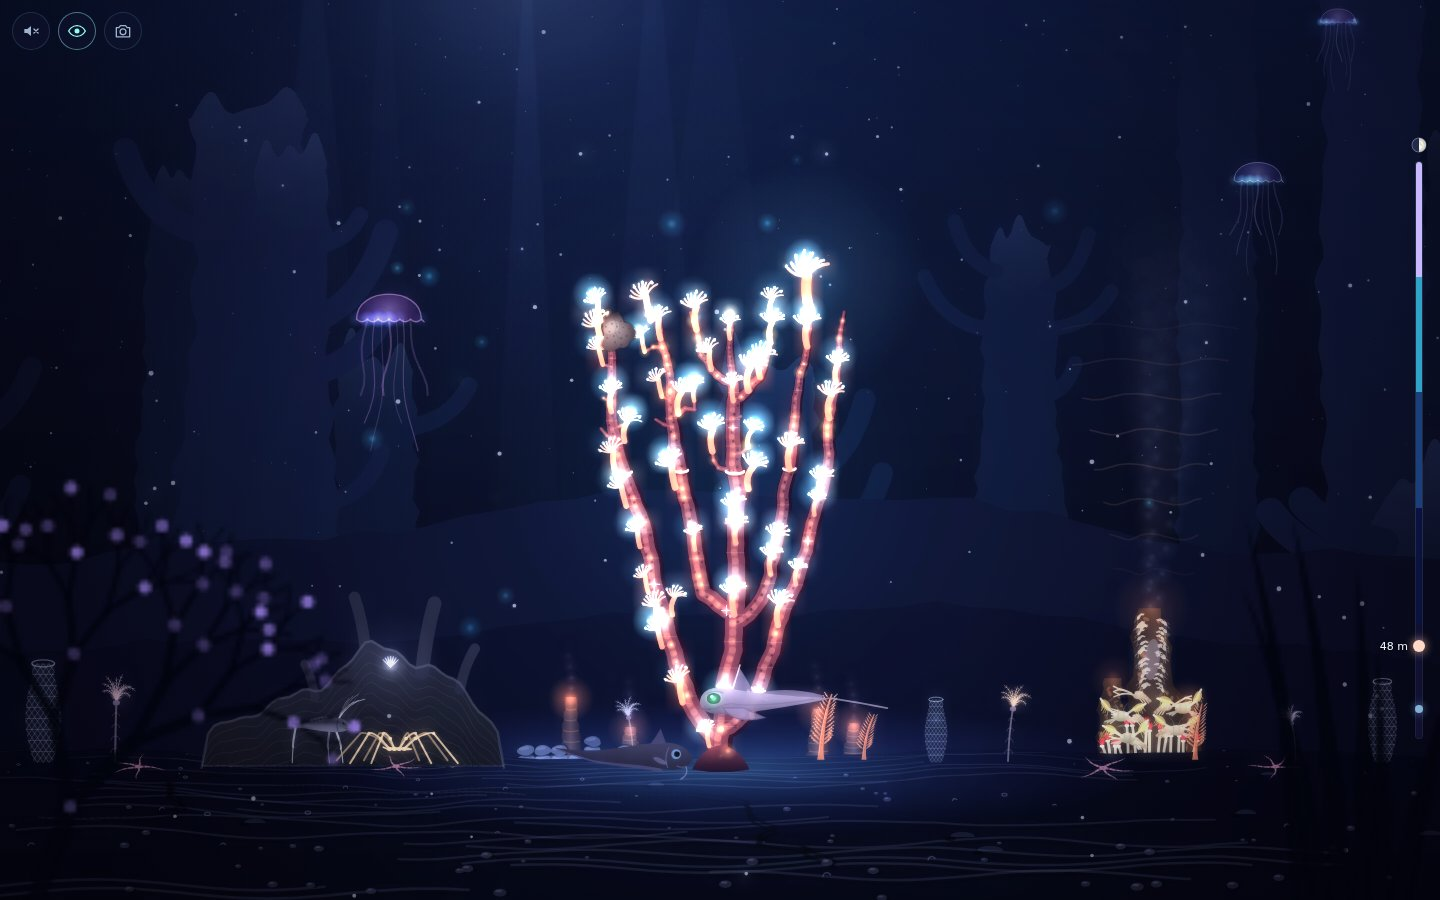
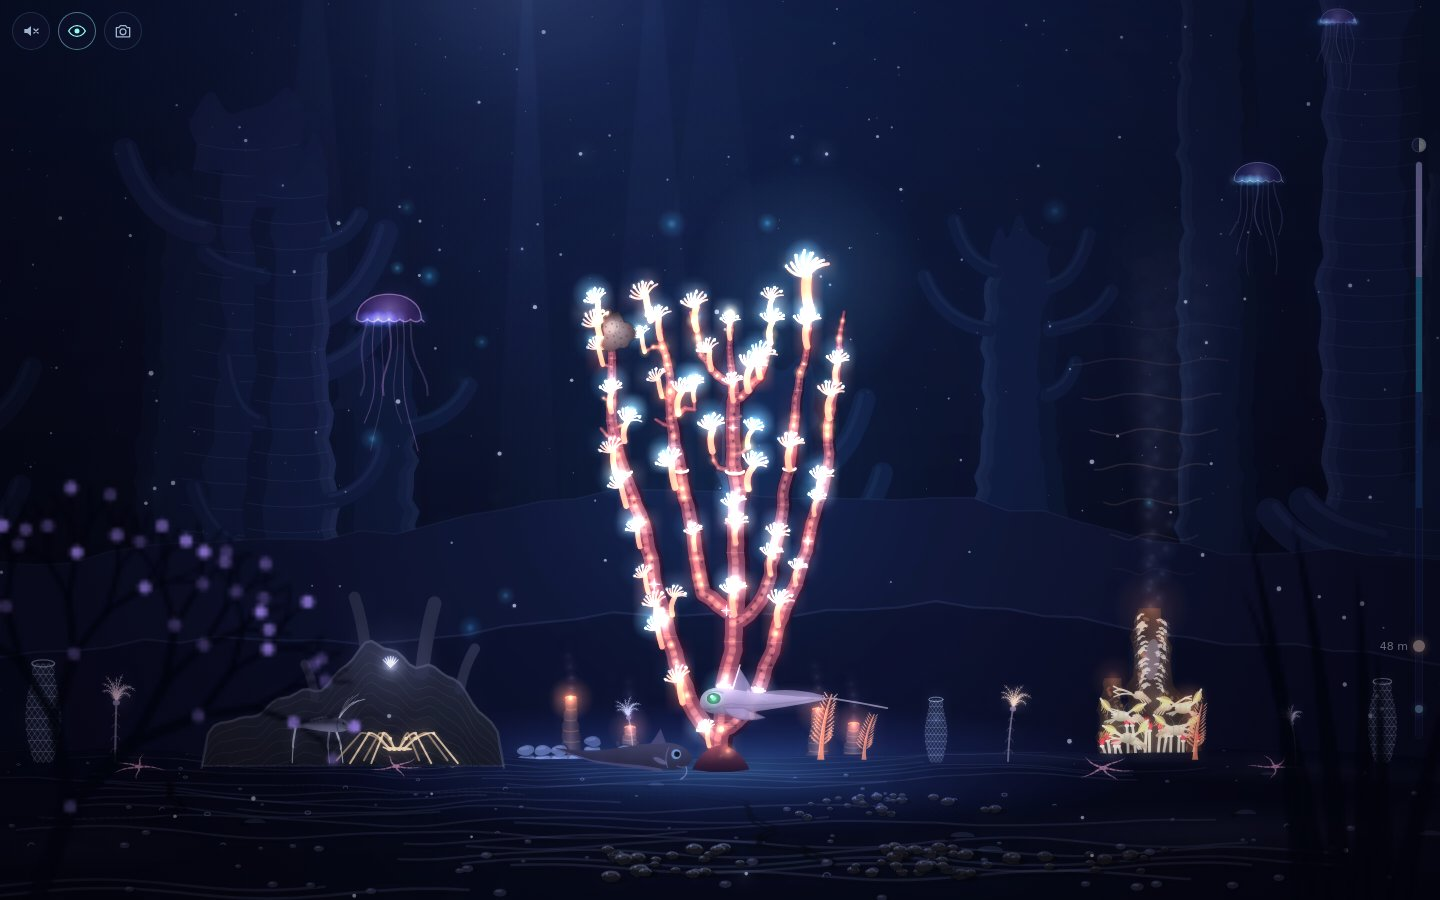
README pictures and link preview retaken; the preview frozen between song rings

diff --git a/tools/share.ts b/tools/share.ts
@@ -1,8 +1,9 @@
 // The link preview (og:image): the reef at the Breach under the moon, 1200×630, no UI, written to
 // src/client/icons/share.jpg. Run: node --no-warnings tools/share.ts
+// Frozen at the end of a song cycle (its call ring every 4 s has all but faded): a still caught mid-ring reads as a glass dome.
 import { withGame } from './browser.ts';
 await withGame(async (open) => {
-  const { page } = await open({ name: 'share', width: 1200, height: 630, scale: 1, mobile: false }, '?bot=21500&at=900');
+  const { page } = await open({ name: 'share', width: 1200, height: 630, scale: 1, mobile: false }, '?bot=21500&t=903.85');
   page.setDefaultTimeout(2000);
   await page.waitForTimeout(3000);
   for (let i = 0; i < 10 && (await page.locator('.reader:not([hidden])').count()); i++) await page.locator('.reader:not([hidden]) button').first().click().catch(() => {});

diff --git a/docs/PROGRESS.md b/docs/PROGRESS.md
@@ -1478,3 +1478,4 @@ date, what landed, what is half-done, what's next.
 - Every list the panel joins with " · " (the chronicle's rows, the moments, today's line, the pairs, the shoals' hints… 15 of them) now joins with " ·" + a no-break space: a line breaks before a dot, never leaving one hanging at a line's end. Items themselves may still wrap (some are long effects); only the weather card's Soon list keeps its short items whole. smoke and systems e2e green.
 - Overlaps (tools/overlaps.ts, all viewports, 54 stage × size checks) after the evening's changes: clean.
 - Long-session memory (a release question for an idle game left open for hours): a phone at the Midnight→Twilight stage run at 50× for ~4 h of game time with sweeps in bursts, the heap measured after forced GC (CDP Runtime.getHeapUsage; performance.memory is bucketed in headless Chromium and read a flat 10.0 MB): 7.2 MB at load, 10.8 after warm-up, then a plateau at 11.5–12.3 MB; DOM elements flat at ~2,890–2,915. No leak.
+- README pictures retaken for today's art (silt-floor, midnight-water, twilight-shelf, sunlit-crown: the nodule fields, round banded towers, sand rubble, shelf brittle stars), and the link preview (share.jpg) too. The preview had caught the reef's song (the "call" ring swelling every 4 s) mid-ring, which in a still reads as a glass dome over the crown; tools/share.ts now freezes the scene at the end of a cycle (t=903.85) instead of shooting at whatever moment the page was ready.
